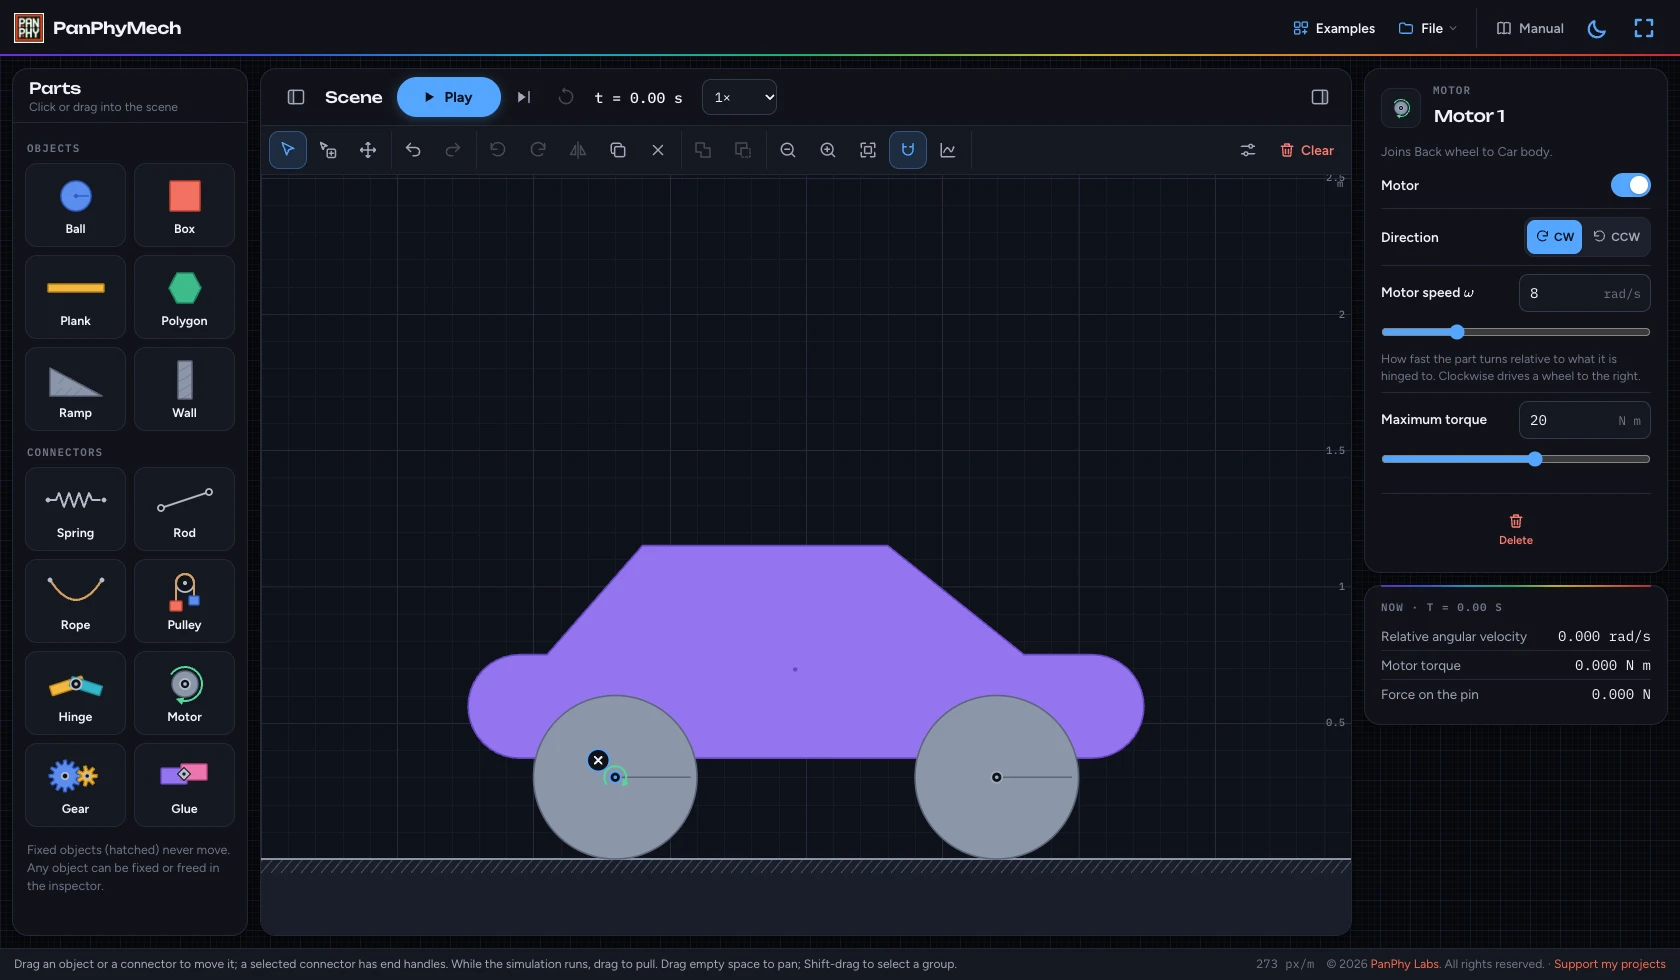
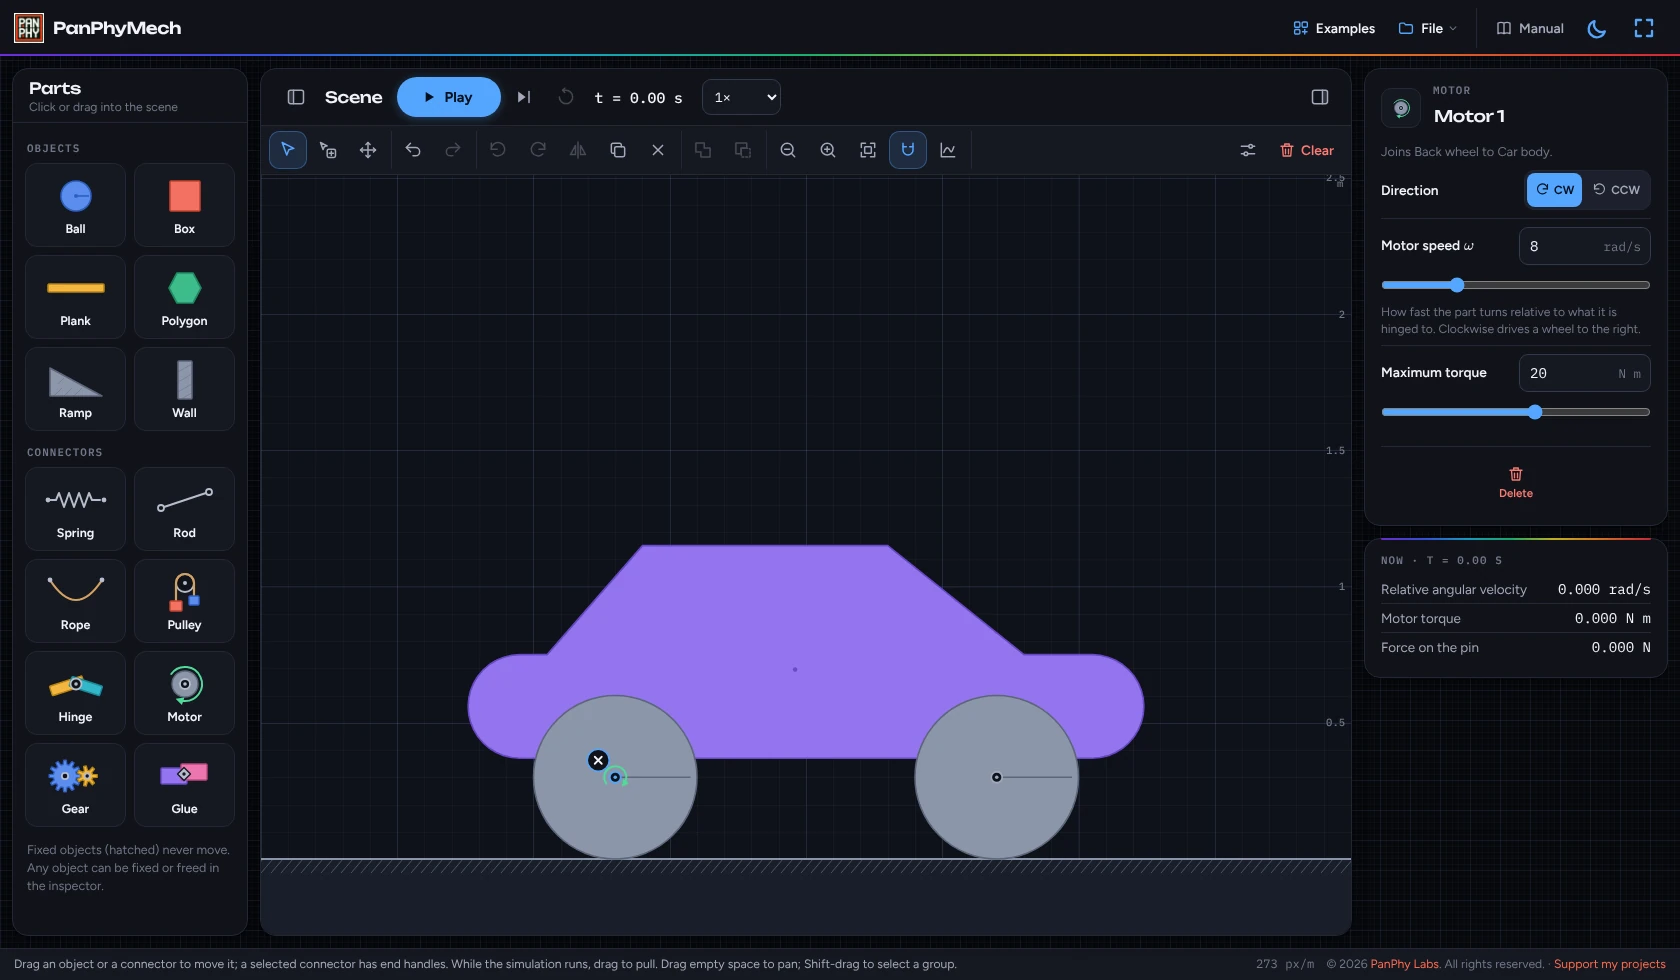
PanPhyMech: make hinge and motor separate parts (#1540)
Remove the Motor switch from a hinge's settings, so a hinge stays a hinge.
To drive one, choose Motor and click the hinge: the motor replaces it on
the same pin and objects (and Hinge on a motor swaps back). Update the
manual's gear walkthrough and retake its two motor screenshots.

Claude-Session: https://claude.ai/code/session_01DzhnHY5UoTxkj7fNiBrPKC

Changed region(s): [[0.8048, 0.1531, 0.9905, 0.4286], [0.8048, 0.551, 0.9905, 0.7347], [0.8048, 0.4592, 0.9905, 0.551]]

diff --git a/sandboxes/panphymech/manual.html b/sandboxes/panphymech/manual.html
@@ -372,17 +372,17 @@
 <div class="step-layout">
 <div class="step-instructions">
 <ol class="actions">
-<li>Click the dot at Driver’s center to select its hinge, and turn on <strong>Motor</strong>.</li>
+<li>Choose <strong>Motor</strong> and click the dot at Driver’s center. The motor replaces the hinge there.</li>
 <li>Set the direction to CCW, the speed to 3 rad/s and the maximum torque to 20 N m.</li>
 </ol>
 <div class="checkpoint"><strong>What you should see</strong>
-<p>The hinge is now a motor. Driver will turn at 3 rad/s and Compound gear at 1 rad/s.</p>
+<p>A motor now drives Driver in place of its hinge. Driver will turn at 3 rad/s and Compound gear at 1 rad/s.</p>
 </div>
 </div>
 <figure class="screenshot">
-<a class="screenshot-link screenshot-light" href="manual/gear-2-light.webp" target="_blank" rel="noopener" aria-label="Enlarge drive it with a motor screenshot"><img src="manual/gear-2-light.webp" width="1680" height="980" loading="lazy" decoding="async" alt="PanPhyMech: Driver’s hinge turned into a 3 rad/s motor."><span class="screenshot-open">Enlarge screenshot ↗</span></a>
-<a class="screenshot-link screenshot-dark" href="manual/gear-2-dark.webp" target="_blank" rel="noopener" aria-label="Enlarge drive it with a motor screenshot"><img src="manual/gear-2-dark.webp" width="1680" height="980" loading="lazy" decoding="async" alt="PanPhyMech: Driver’s hinge turned into a 3 rad/s motor."><span class="screenshot-open">Enlarge screenshot ↗</span></a>
-<figcaption><strong>Motor on.</strong> Driver’s hinge turned into a 3 rad/s motor.</figcaption>
+<a class="screenshot-link screenshot-light" href="manual/gear-2-light.webp" target="_blank" rel="noopener" aria-label="Enlarge drive it with a motor screenshot"><img src="manual/gear-2-light.webp" width="1680" height="980" loading="lazy" decoding="async" alt="PanPhyMech: A 3 rad/s motor in place of Driver’s hinge."><span class="screenshot-open">Enlarge screenshot ↗</span></a>
+<a class="screenshot-link screenshot-dark" href="manual/gear-2-dark.webp" target="_blank" rel="noopener" aria-label="Enlarge drive it with a motor screenshot"><img src="manual/gear-2-dark.webp" width="1680" height="980" loading="lazy" decoding="async" alt="PanPhyMech: A 3 rad/s motor in place of Driver’s hinge."><span class="screenshot-open">Enlarge screenshot ↗</span></a>
+<figcaption><strong>Motor in place.</strong> A 3 rad/s motor replaces Driver’s hinge.</figcaption>
 </figure>
 </div>
 <nav class="step-nav" aria-label="Gear tip step 2 navigation"><a href="#gear-mesh">← Previous</a><a href="#gear-ring">Next: Make a compound gear →</a>
@@ -477,7 +477,7 @@
 <li><strong>Spring, rod, rope:</strong> click the first endpoint, then the second. When dragging from Parts, drop the first end and click the second. An endpoint on empty space is fixed to the background; endpoints snap to nearby object centers and, with Snap on, nearby edges.</li>
 <li><strong>Pulley:</strong> click where the wheel goes, then the first end of the rope, then the second. When dragging from Parts, the drop places the wheel. One rope runs from the first end, over the wheel, to the second. At least one end must be on an object, and both ends must be outside the wheel. Drag the wheel or the rope to move the wheel; the ends stay attached. The Inspector sets the rope length, the wheel radius and the wheel position, and shows the tension, the length of each side and any slack. The rope cannot be shorter than its path over the wheel; a longer rope starts slack. Try <strong>Examples → Atwood machine</strong> and <strong>Cart pulled by a hanging mass</strong>.</li>
 <li><strong>Join a spring to another connector:</strong> put a spring end on the free end of another spring, an ideal rope or rod, or a pulley’s rope, where that end is fixed to the background. A dot marks the join. You can also start a rope, rod or pulley rope on a spring’s free end. The two act as one connector with a massless knot between them, so one pull runs through both. At least one outer end must be on an object. Drag a joined end’s handle away to separate the pair. Deleting one part leaves the other fixed to the background where the join was, or removes it if it would then have no end on an object. Only a spring joins: two ropes joined end to end would just be one longer rope.</li>
-<li><strong>Hinge, motor, glue:</strong> place at the overlap between two objects. With one object, the joint attaches it to the background. A motor turns its first attached object relative to the second; set its speed, direction and maximum torque in the Inspector.</li>
+<li><strong>Hinge, motor, glue:</strong> place at the overlap between two objects. With one object, the joint attaches it to the background. A motor turns its first attached object relative to the second; set its speed, direction and maximum torque in the Inspector. Hinges and motors are separate parts: to drive a hinge, choose Motor and click the hinge, which swaps it for a motor on the same spot and objects (choose Hinge and click a motor to swap back).</li>
 <li data-math-static><strong>Gear:</strong> click a ball, then a second ball. Both become toothed gear wheels and mesh, so they turn in opposite directions with \(\omega_1 N_1 = \omega_2 N_2\), where \(N\) is the number of teeth. Each wheel turns on a hinge or motor at its center, added if it has no joint yet, and the second wheel slides along to touch the first. Every gear has teeth 10 cm apart along its rim, so the teeth set the radius: set the teeth on either wheel in the gear’s Inspector, and the other wheel slides to stay meshed. The driven wheel turns \(\dfrac{N_2}{N_1}\) times slower with \(\dfrac{N_2}{N_1}\) times the torque, and the readings show both wheels’ angular velocities, the torques the teeth exert and the force between them. In a ball’s Inspector, <strong>Add a smaller ring</strong> fixes a second, smaller gear to the same axle (a compound gear); choose which ring a gear meshes in the gear’s Inspector. Gear wheels never collide with each other, as if each pair turned in its own layer. A gear works only while both wheels are free to turn on one hinge each at their centers, fixed to the same thing (the background or one object), with their rings touching; otherwise a dashed line joins the wheels and the notes pill says what to change. Try <strong>Examples → Gear train</strong>.</li>
 <li>A spring’s initial natural length matches its placement; change its natural length, stiffness or damping in the Inspector. A rod holds a fixed distance; a rope limits the maximum distance.</li>
 <li>Rods and ropes are ideal and massless until Solid is enabled. Solid rods are thin bars; solid ropes are chains that can drape around objects. Their mass contributes to system energy. Extreme mass ratios can make a solid rope unstable.</li>

diff --git a/sandboxes/panphymech/js/editor.js b/sandboxes/panphymech/js/editor.js
@@ -15,8 +15,8 @@
     spring: 'Spring: click the first end on an object or the background, then the second end. Right-click or Esc cancels.',
     rod: 'Rod: click the first end on an object or the background, then the second end. A rod keeps its length. Right-click or Esc cancels.',
     rope: 'Rope: click the first end on an object or the background, then the second end. A rope can go slack. Right-click or Esc cancels.',
-    hinge: 'Hinge: click where two objects overlap to pin them together, or on one object to pin it to the background. Right-click or Esc cancels.',
-    motor: 'Motor: click on a wheel where it overlaps another object (or on one object to drive it about a fixed axle). Right-click or Esc cancels.',
+    hinge: 'Hinge: click where two objects overlap to pin them together, or on one object to pin it to the background. Click a motor to replace it with a hinge. Right-click or Esc cancels.',
+    motor: 'Motor: click on a wheel where it overlaps another object (or on one object to drive it about a fixed axle). Click a hinge to replace it with a motor. Right-click or Esc cancels.',
     weld: 'Glue: click where two objects overlap to join them rigidly, or on one object to fix it to the background. Right-click or Esc cancels.',
     pulley: 'Pulley: click where the wheel goes, then the first end of the rope, then the second end. Right-click or Esc cancels.',
     gear: 'Gear: click a ball, then a second ball to mesh with it. Each turns on a hinge at its center (added if missing), and the second slides into mesh. Right-click or Esc cancels.'
@@ -350,6 +350,8 @@
         return { point: target.world, ok: true };
       }
       if (['hinge', 'motor', 'weld'].includes(ed.tool)) {
+        const swap = swapTarget(w);
+        if (swap) return { point: S.endPoint(app.scene, swap.a, swap.la, app.poseOf), ok: true };
         const bs = jointBodies(w);
         return { point: bs.length ? jointPoint(w, bs[0]) : w, ok: bs.length > 0 };
       }
@@ -560,7 +562,38 @@
       else app.setHint(HINTS.pulley);
     }
 
+    // A hinge under the pointer when placing a motor, or a motor when placing a hinge: clicking
+    // it swaps it for the new joint in the same spot, on the same objects.
+    function swapTarget(w) {
+      if (ed.tool !== 'hinge' && ed.tool !== 'motor') return null;
+      const sp = rr().toScreen(w);
+      let best = null, bestD = 10;
+      app.scene.links.forEach((l) => {
+        if (l.kind !== 'hinge' || !!l.motor === (ed.tool === 'motor')) return;
+        const p = rr().toScreen(S.endPoint(app.scene, l.a, l.la, app.poseOf));
+        const d = Math.hypot(sp.x - p.x, sp.y - p.y);
+        if (d <= bestD) { bestD = d; best = l; }
+      });
+      return best;
+    }
+
+    function swapJoint(old, keep) {
+      const kind = ed.tool;
+      app.edit(() => {
+        const i = app.scene.links.findIndex((l) => l.id === old.id);
+        const l = S.makeLink(app.scene, kind, old.a, { ...old.la }, old.b, old.lb && { ...old.lb });
+        l.id = old.id;
+        // A name the user chose stays; a default one follows the new kind.
+        if (!/^(Hinge|Motor) \d+$/.test(old.name)) l.name = old.name;
+        app.scene.links[i] = l;
+        app.select({ type: 'link', id: l.id });
+      });
+      if (!keep) ed.setTool('select');
+    }
+
     function placeJoint(w, keep) {
+      const swap = swapTarget(w);
+      if (swap) { swapJoint(swap, keep); return; }
       const bs = jointBodies(w);
       if (!bs.length) { app.toast('Click on an object.'); return; }
       const top = bs[0];

diff --git a/sandboxes/panphymech/js/ui.js b/sandboxes/panphymech/js/ui.js
@@ -917,7 +917,6 @@
         pulleyFields(l, false).forEach((el) => main.appendChild(el));
         rows.push({ key: 'force', label: 'Tension \\(T\\)', plain: 'Tension T' }, { key: 'sideA', label: `Side to ${endName(l().a)}`, plain: `Side to ${endName(l().a)}` }, { key: 'sideB', label: `Side to ${endName(l().b)}`, plain: `Side to ${endName(l().b)}` }, { key: 'slack', label: 'Slack', plain: 'Slack' });
       } else if (l().kind === 'hinge') {
-        main.appendChild(toggleField('Motor', () => l().motor, (v) => app.editParam(() => { l().motor = v; if (v && !l().torque) l().torque = 50; if (v && !l().speed) l().speed = 3 * motorDir(l()); }, null, false, true)));
         if (l().motor) {
           motorFields(l, param, true).forEach((el) => main.appendChild(el));
           main.appendChild(numField({ label: 'Maximum torque', unit: 'N m', get: () => l().torque, set: param((x, v) => { x.torque = v; }), min: L.torque[0], max: L.torque[1], slider: [0.1, 1000], log: true }));
@@ -1143,10 +1142,6 @@
       } else if (l().kind === 'gear') {
         gearFields(l).forEach((el) => items.push(el));
       } else if (l().kind === 'hinge') {
-        items.push(toggleField('Motor', () => l().motor, (v) => {
-          app.editParam(() => { l().motor = v; if (v && !l().torque) l().torque = 50; if (v && !l().speed) l().speed = 3 * motorDir(l()); }, null, false, true);
-          if (quickAt) ui.showQuick(sel, quickAt.x, quickAt.y);
-        }));
         if (l().motor) {
           motorFields(l, param, false).forEach((el) => items.push(el));
           items.push(numField({ label: 'Maximum torque', unit: 'N m', get: () => l().torque, set: param((x, v) => { x.torque = v; }), min: L.torque[0], max: L.torque[1], slider: [0.1, 1000], log: true }));
@@ -1163,7 +1158,8 @@
       ui.fields = saved;
       if (!items.length) {
         ui.closeQuick();
-        app.toast('Glue has no settings. Select it to see the force on the joint.');
+        const none = sel.type === 'link' && S.linkById(app.scene, sel.id);
+        app.toast(none && none.kind === 'hinge' ? 'A hinge has no settings. Select it to see the force on the pin.' : 'Glue has no settings. Select it to see the force on the joint.');
         return;
       }
       const obj = sel.type === 'body' ? S.bodyById(app.scene, sel.id) : S.linkById(app.scene, sel.id);

diff --git a/sw.js b/sw.js
@@ -1,4 +1,4 @@
-const BUILD_ID = '2026-11-07T00:12:32Z';
+const BUILD_ID = '2026-11-07T00:24:35Z';
 const CACHE_PREFIX = 'panphy-labs';
 const PRECACHE_NAME = `${CACHE_PREFIX}-precache-${BUILD_ID}`;
 const RUNTIME_CACHE = `${CACHE_PREFIX}-runtime-${BUILD_ID}`;

diff --git a/sandboxes/panphymech/README.md b/sandboxes/panphymech/README.md
@@ -28,7 +28,7 @@ Run the physics checks with `node --test sandboxes/panphymech/tests/*.test.cjs`.
 
 Shift-drag from empty space (or a plain drag with Select several on) draws a selection box that adds the objects wholly inside it; Ctrl+A selects everything. `S.boxContents` also returns the connector ends fixed to the background and the pulley wheels inside the box; the app keeps them in `app.anchors` (cleared by any new selection), and dragging or nudging the selected objects passes them to `S.transformBodies`, so a build moves with its pivots and wheels. Dragging a connector attached to the selection (an end on a selected object or caught by the box, or a joined partner of one) moves the group too; a click without a drag selects that connector. Copy and paste selected objects or connectors with Ctrl+C / Ctrl+V (Command on Mac). Object groups retain internal connectors; connector-only copies retain their original attachments. Copies use fresh IDs and paste as one undoable edit. Mirror (M) reflects the selected object and its hinged or glued group left to right about the object’s center, flipping shapes, attachment points, starting velocities and motor directions; connectors to other objects keep their outside ends, and rods, ropes and pulleys refit their lengths. With Snap on, object placement and dragging prioritize nearby surface contact, then an object's center landing on another object's edge (`centerSnap`), over the grid, including rotated and custom shapes, and connector endpoints snap to nearby edges as well as centers. Holding Ctrl or Command pauses Snap until it is released, also mid-drag, and the Snap button shows off meanwhile.
 
-Drag any library part directly into the scene. A completed object drop exits placement mode, including when that part was already selected, so the next click selects or moves it instead of placing a second object. Connector drags show the snapped starting point on the canvas, without a floating connector icon. Springs, rods and ropes start their first endpoint at the drop position; click the second endpoint to finish, or press Esc to cancel. A pulley's drop places its wheel; then click the rope's two ends. Hinges, motors and glue attach at the drop position. Right-click or hold an object, connector or selected connector endpoint for quick settings (500 ms for touch/pen); movement and a second finger cancel the hold.
+Drag any library part directly into the scene. A completed object drop exits placement mode, including when that part was already selected, so the next click selects or moves it instead of placing a second object. Connector drags show the snapped starting point on the canvas, without a floating connector icon. Springs, rods and ropes start their first endpoint at the drop position; click the second endpoint to finish, or press Esc to cancel. A pulley's drop places its wheel; then click the rope's two ends. Hinges, motors and glue attach at the drop position. Hinge and motor are separate parts with no switch between them: a motor placed on a hinge's pin (or a hinge on a motor's) replaces that joint, keeping its id, ends and any name the user gave it. Right-click or hold an object, connector or selected connector endpoint for quick settings (500 ms for touch/pen); movement and a second finger cancel the hold.
 
 The graph uses `/assets/graph-range.js` for mouse, touch and pen time selection. Drag across the graph to zoom into a range; CSV and PanPhyPlot exports use only that range, retaining the original sample times. **Full Graph** is a separate view-reset control before the export pills; it restores the complete recording and is disabled when the full recording is already visible. Hover over the graph to mark the nearest recorded sample and read its time and values. Keyboard +/− zoom, arrows pan, and Escape restores the full graph. A reset or new scene clears the selection.
 
